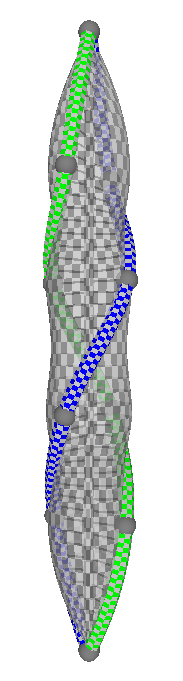
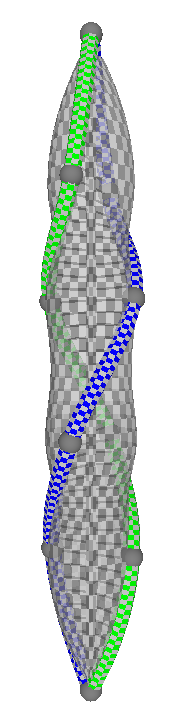
added inflation tube chapter

Changed region(s): [[0.1913, 0.0308, 0.7923, 0.9868]]

diff --git a/paper/paper.tex b/paper/paper.tex
@@ -246,8 +246,73 @@ We further provide the ability to animate the average curve between the two cont
 As a last graphic feature, we draw the inflation tube. The inflation tube is the envelope of the minimal balls along the curve average.
 It can be seen as the union of all balls with the center on the curve average that exactly touches the control curve and contains no other point in the interior.
 
-TODO: displaying: NO piecewise tubes orthogonal to the curve average, but rotating PA around the curve average (image)
-TODO: parallel transport
+\subsubsection{Drawing the inflation tube}
+
+To draw the inflation tube, we get the following input from the tracing algorithm: the samples of the average curve $P_i$, $i\in\{0,...n-1\}$, the closest projections on the two control curves $A_i$ and $B_i$ and the radii or distances to the closest projections $r_i$. We further define the tangent $T_i$ at the average curve sample $i$ as $T_i=\frac{1}{2}(P_{i+1}-P_{i-1})$.
+
+The first way one might think of drawing it, is to circles around the average curve samples $P_i$ in the plane orthogonal to the tangents $T_i$ with radii $r_i$ and connect them to tubes. However, this approach will lead to wrong results since the closest projections to the control curves are not orthogonal to the average curve tangent. Therefore, the distance from the closest projections to the average curve is not equal to the radius of the circle when it should touch the control curves.\\
+
+We present a different approach now. Instead of drawing circles orthogonal to the tangents, we directly take the vectors $P_i A_i$ and rotate them around $T_i$. This technique is visualized in Fig.\ref{fig:InflationDrawing}. We rotate $P_i A_i$ as described in Eq.\ref{eq:Rot} the whole $360^{\circ}$. At $180^{\circ}$, the vector becomes $P_i B_i$. We then sample the circles at constant angles and connect samples with the same angle, leading to the tube as shown in Fig.\ref{fig:Inflation}a.
+
+\begin{figure}[ht!] 
+  \centering
+	\begin{tikzpicture}[scale=0.5]
+		\draw[black,thick] (0,0) coordinate -- (0,10) coordinate; %curves
+		\draw[green,thick] (-3,0) coordinate -- (-6,10) coordinate;
+		\draw[blue,thick] (3,0) coordinate -- (6,10) coordinate;
+		\coordinate[label=right:$P_{i+1}$] (P2) at (0,8) coordinate; %samples
+		\coordinate[label=right:$P_{i}$] (P1) at (0,6) coordinate;
+		\coordinate[label=right:$P_{i-1}$] (P0) at (0,4) coordinate;
+		\draw[dashed] (0,8) coordinate -- (5,6.5) coordinate; %closest projections
+		\draw[dashed] (0,8) coordinate -- (-2.5,7.25) coordinate node[below] {$r_{i+1}$} -- (-5,6.5) coordinate;
+		\draw[dashed] (0,6) coordinate -- (4.5,4.65) coordinate;
+		\draw[dashed] (0,6) coordinate -- (-2.25,5.325) coordinate node[below] {$r_{i}$} -- (-4.5,4.65) coordinate;
+		\draw[dashed] (0,4) coordinate -- (4,2.8) coordinate;
+		\draw[dashed] (0,4) coordinate -- (-2,3.4) coordinate node[below] {$r_{i-1}$} -- (-4,2.8) coordinate;
+		\coordinate[label=left:$A_{i+1}$] (A2) at (-5,6.5) coordinate; %closest projection points
+		\coordinate[label=left:$A_{i}$] (A1) at (-4.45,4.65) coordinate;
+		\coordinate[label=left:$A_{i-1}$] (A0) at (-3.9,2.8) coordinate;
+		\coordinate[label=left:$B_{i+1}$] (B2) at (5,6.5) coordinate;
+		\coordinate[label=left:$B_{i}$] (B1) at (4.45,4.65) coordinate;
+		\coordinate[label=left:$B_{i-1}$] (B0) at (3.9,2.8) coordinate;
+		\draw[red,thick] ([shift=(180:5)] 0,6.5) arc (180:0:5 and 3); %tube elipses
+		\draw[red,dashed,thick] ([shift=(180:5)] 0,6.5) arc (180:360:5 and 3);
+		\draw[red,thick] ([shift=(180:4.5)] 0,4.65) arc (180:0:4.5 and 2.7);
+		\draw[red,dashed,thick] ([shift=(180:4.5)] 0,4.65) arc (180:360:4.5 and 2.7);
+		\draw[red,thick] ([shift=(180:3.9)] 0,2.8) arc (180:0:3.9 and 2.4);
+		\draw[red,dashed,thick] ([shift=(180:3.9)] 0,2.8) arc (180:360:3.9 and 2.4);
+		\tikzset{mypoints/.style={fill=white,draw=black,thick}} %coordinate points
+		\foreach \p in {P0,P1,P2,A0,A1,A2,B0,B1,B2}
+			\fill[mypoints] (\p) circle (5.0pt);
+	\end{tikzpicture}
+	\caption{inflation tube}
+	\label{fig:InflationDrawing}
+\end{figure}
+
+\subsubsection{Parallel transport}
+When the control curves rotate around the average curve, the inflation tube follows this rotation, as seen in Fig.\ref{fig:Inflation}a. However, often Fig.\ref{fig:Inflation}b is required. Here, the rotation of the inflation tube stays constant although the control curves rotate around it.
+
+The technique to achieve this result is called Parallel Transport. The only thing we have to do is to modify the start angle $\alpha_i$. Instead of sampling each circle (see previous section) starting with $0^{\circ}$, we start it at an angle that minimizes the rotation to the previous circle.
+
+The task is now the following: given the previous tangent $\underline{T_{i-1}}$, rotated vector $P_{i-1}A_{i-1}$ and start angle $\alpha_{i-1}$, and the current tangent $\underline{T_i}$ and rotated vector $P_i A_i$, find the current start angle $\alpha_i$ so that the twist is minimized.
+In other words, we have to find $\alpha_i$ so that $P_i A_i^{\circ}(\alpha_i; T_i)$ lies in the plane spanned by $T_{i-1}$ and $X:=P_{i-1}A_{i-1}^{\circ}(\alpha_{i-1}; T_{i-1})$:
+
+\begin{equation}
+	\begin{array}{rcl}
+		\underline{X} &:=& \underline{P_{i-1}A_{i-1}^{\circ}(\alpha_{i-1}; T_{i-1})} \\
+		\underline{N'} &:=& \underline{T_{i-1}} \times \underline{X} \\
+		\underline{PA'} &:=& \underline{P_i A_i} \\
+		x &:=& \underline{PA'} \bullet \underline{N'} \\
+		y &:=& \underline{PA'} \bullet \underline{X} \\
+		PA'' &:=& xN' + yX \\
+		\alpha_i &:=& ( (x<0)?(-1):1 ) \cdot \cos^{-1}(\underline{X} \bullet \underline{PA''})
+	\end{array}
+\label{eq:ParallelTransport}
+\end{equation}
+$\underline{N'}$ is the normal of the reference plane, then we project $P_i A_i$ in that plane and obtain $PA''$. The final angle $\alpha_i$ is then the angle between the reference vector $X$ and the projected vector $PA''$. Since this angle does not include the direction of the twist, we have to invert the angle if $x<0$.
+
+\subsubsection{half tube}
+Instead of drawing the whole inflation tube without parallel transport, we could also draw only half of it. This leads to the interesting effect of a waterslide as seen in Fig.\ref{fig:Inflation}c.
 
 \section{Results}
 

diff --git a/src/curveavg/CurveAverage.java b/src/curveavg/CurveAverage.java
@@ -705,7 +705,7 @@ public class CurveAverage extends AbstractPApplet {
 					Vector3f reference = rotate(angles[i-1], CAp, Ns[i-1]);
 					//compute the angle so that CA°angle lies in the plane N x reference
 					Vector3f refPrime = reference.normalize();
-					Vector3f NPrime = N.cross(refPrime);
+					Vector3f NPrime = Ns[i-1].cross(refPrime);
 					Vector3f CAPrime = CA.normalize();
 					float x = CAPrime.dot(NPrime);
 					float y = CAPrime.dot(refPrime);
